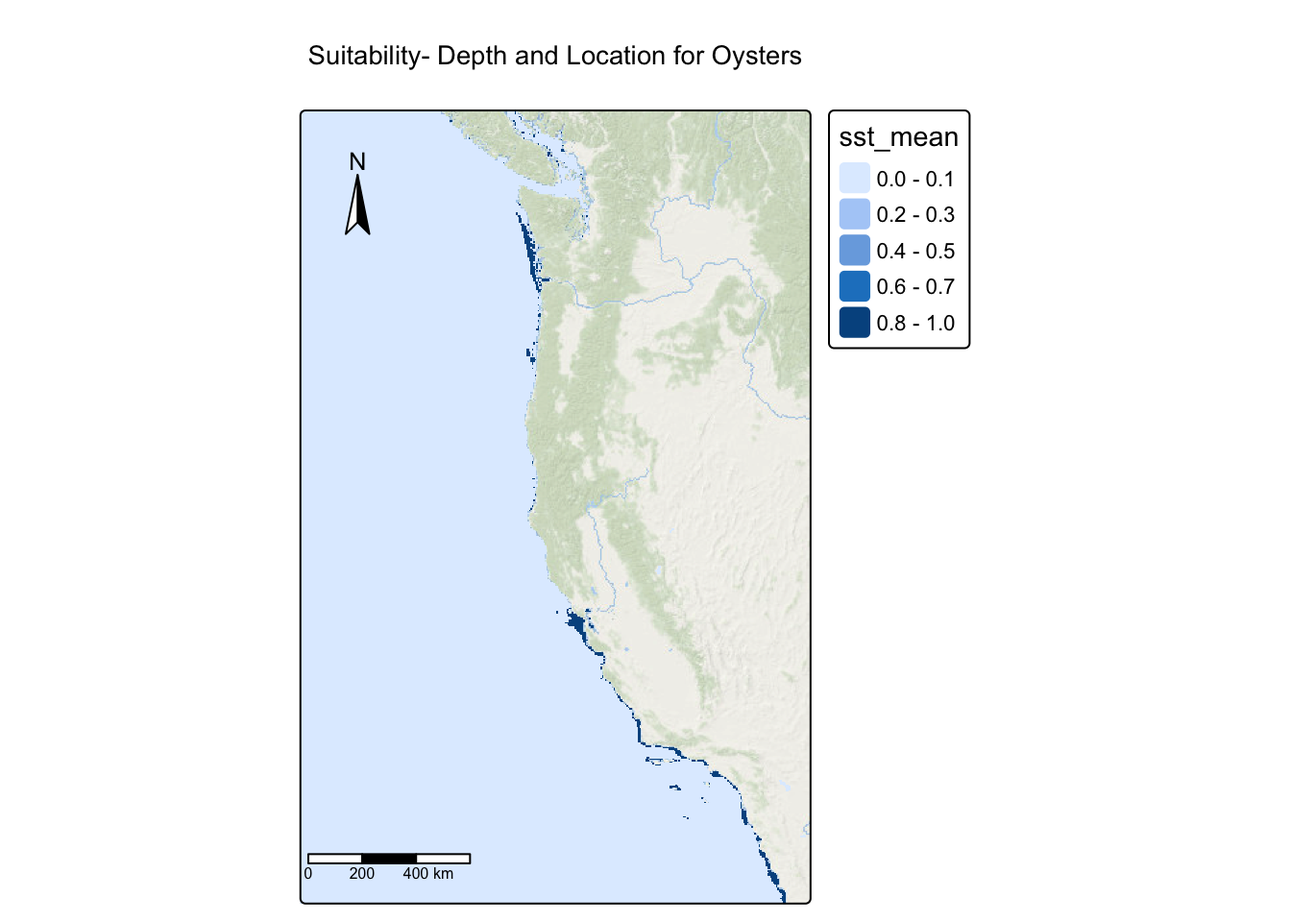
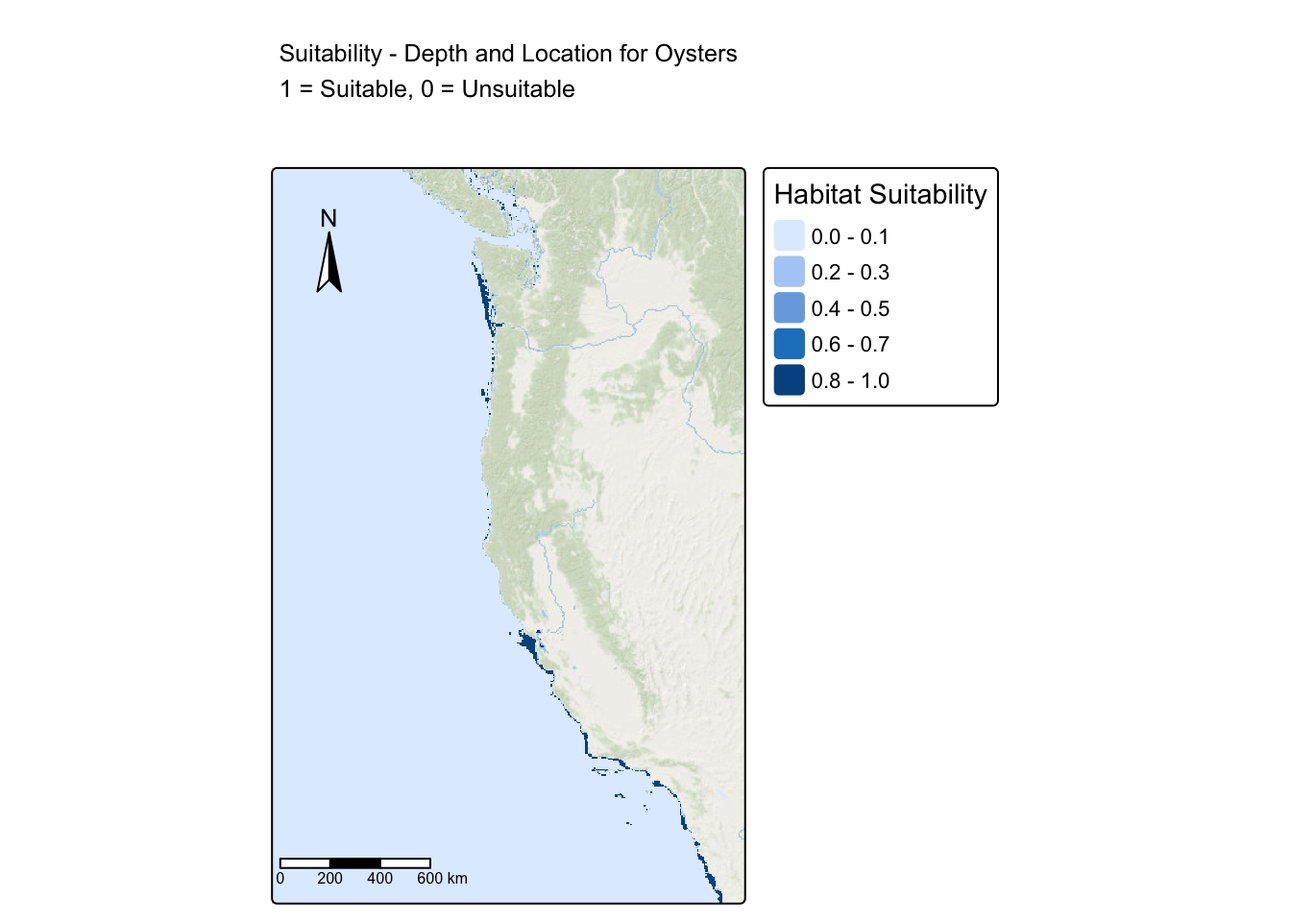
Removed text for redundancy

Changed region(s): [[0.1875, 0.0312, 0.7812, 1.0]]

diff --git a/docs/blog_post/prioritizing_west_coast_aquaculture_sites/index.html b/docs/blog_post/prioritizing_west_coast_aquaculture_sites/index.html
@@ -228,10 +228,10 @@ pre > code.sourceCode > span > a:first-child::before { text-decoration: underlin
   <li><a href="#importing-libraries" id="toc-importing-libraries" class="nav-link" data-scroll-target="#importing-libraries">Importing libraries</a></li>
   <li><a href="#import-data" id="toc-import-data" class="nav-link" data-scroll-target="#import-data">Import Data</a></li>
   <li><a href="#matching-crs-for-rasters" id="toc-matching-crs-for-rasters" class="nav-link" data-scroll-target="#matching-crs-for-rasters">Matching CRS for Rasters</a></li>
-  <li><a href="#combine-sst-rasters-into-a-raster-stack" id="toc-combine-sst-rasters-into-a-raster-stack" class="nav-link" data-scroll-target="#combine-sst-rasters-into-a-raster-stack">Combine SST rasters into a raster stack</a></li>
   </ul></li>
   <li><a href="#data-processing" id="toc-data-processing" class="nav-link" data-scroll-target="#data-processing">Data Processing</a>
   <ul class="collapse">
+  <li><a href="#combine-sst-rasters-into-a-raster-stack" id="toc-combine-sst-rasters-into-a-raster-stack" class="nav-link" data-scroll-target="#combine-sst-rasters-into-a-raster-stack">Combine SST rasters into a raster stack</a></li>
   <li><a href="#crop-extent-resolution" id="toc-crop-extent-resolution" class="nav-link" data-scroll-target="#crop-extent-resolution">Crop, Extent, Resolution</a></li>
   <li><a href="#find-suitable-locations-for-depth-and-sst" id="toc-find-suitable-locations-for-depth-and-sst" class="nav-link" data-scroll-target="#find-suitable-locations-for-depth-and-sst">Find Suitable Locations for Depth and SST</a></li>
   </ul></li>
@@ -244,7 +244,7 @@ pre > code.sourceCode > span > a:first-child::before { text-decoration: underlin
   </ul></li>
   <li><a href="#generalizable-suitability-analysis-function" id="toc-generalizable-suitability-analysis-function" class="nav-link" data-scroll-target="#generalizable-suitability-analysis-function">Generalizable Suitability Analysis Function</a>
   <ul class="collapse">
-  <li><a href="#important-load-in-datasets-before-using-function" id="toc-important-load-in-datasets-before-using-function" class="nav-link" data-scroll-target="#important-load-in-datasets-before-using-function"><strong>Important</strong> Load in datasets before using function:</a></li>
+  <li><a href="#note" id="toc-note" class="nav-link" data-scroll-target="#note"><em>Note</em>:</a></li>
   <li><a href="#use-function-with-new-species" id="toc-use-function-with-new-species" class="nav-link" data-scroll-target="#use-function-with-new-species">Use Function with New Species</a></li>
   <li><a href="#california-sea-hare-aplysia-californica" id="toc-california-sea-hare-aplysia-californica" class="nav-link" data-scroll-target="#california-sea-hare-aplysia-californica">California sea hare (<em>Aplysia californica</em>)</a></li>
   <li><a href="#california-spiny-lobster-panulirus-interruptus" id="toc-california-spiny-lobster-panulirus-interruptus" class="nav-link" data-scroll-target="#california-spiny-lobster-panulirus-interruptus">California spiny lobster (<em>Panulirus Interruptus</em>)</a></li>
@@ -405,9 +405,12 @@ pre > code.sourceCode > span > a:first-child::before { text-decoration: underlin
 </details>
 </div>
 </section>
+</section>
+<section id="data-processing" class="level1">
+<h1>Data Processing</h1>
 <section id="combine-sst-rasters-into-a-raster-stack" class="level3">
 <h3 class="anchored" data-anchor-id="combine-sst-rasters-into-a-raster-stack">Combine SST rasters into a raster stack</h3>
-<p>The original SST files have temperature values in Kelvin. Here, we combine all five monthly SST rasters (avg_08-avg_12) into a stack, calculate the mean sea surface temperature, and convert the values from Kelvin to Celsius by subtracting 273.15.</p>
+<p>To identify suitable habitats for oysters, we first combined five SST rasters (avg_08–avg_12) into a single dataset and calculated the mean SST, converting values from Kelvin to Celsius by subtracting 273.15. Depth data were then cropped and resampled to align with the SST raster, ensuring that all spatial layers had matching extents, resolutions, and coordinate reference systems. Next, we applied environmental thresholds depths between 0–70 meters and SSTs between 11–30°C to identify areas suitable for oyster aquaculture. Locations meeting both criteria were marked as suitable, producing a raster layer that will be mapped to highlight potential oyster habitats. This processing ensures that subsequent analysis and mapping accurately reflect the intersection of temperature and depth requirements across West Coast EEZs, as demonstrated in the following code chunks.</p>
 <div class="cell">
 <details class="code-fold">
 <summary>Code</summary>
@@ -420,12 +423,8 @@ pre > code.sourceCode > span > a:first-child::before { text-decoration: underlin
 </details>
 </div>
 </section>
-</section>
-<section id="data-processing" class="level1">
-<h1>Data Processing</h1>
 <section id="crop-extent-resolution" class="level3">
 <h3 class="anchored" data-anchor-id="crop-extent-resolution">Crop, Extent, Resolution</h3>
-<p>For spatial analysis to work correctly, rasters must have matching extents, resolutions, and alignment. Here, I crop the depth data to match the SST extent, then resample it to ensure both rasters have identical cell sizes and positions. Finally, I verify that resolution, extent, and CRS all match between the two datasets.</p>
 <div class="cell">
 <details class="code-fold">
 <summary>Code</summary>
@@ -482,7 +481,7 @@ pre > code.sourceCode > span > a:first-child::before { text-decoration: underlin
 </section>
 <section id="find-suitable-locations-for-depth-and-sst" class="level3">
 <h3 class="anchored" data-anchor-id="find-suitable-locations-for-depth-and-sst">Find Suitable Locations for Depth and SST</h3>
-<p>To identify suitable locations for oyster aquaculture, we need to find areas that meet both temperature and depth requirements. This is done by reclassifying each raster to indicate suitable (1) vs.&nbsp;unsuitable (0) conditions, then combining them to find locations where both criteria are satisfied. - <code>Oysters have optimal growth at depths between *0-70 meters* below sea level and between *11-30°C*.</code></p>
+<p>To identify suitable locations for oyster aquaculture, we need to find areas that meet both temperature and depth requirements. This is done by reclassifying each raster to indicate suitable (1) vs.&nbsp;unsuitable (0) conditions, then combining them to find locations where both criteria are satisfied.</p>
 <div class="cell">
 <details class="code-fold">
 <summary>Code</summary>
@@ -506,15 +505,14 @@ pre > code.sourceCode > span > a:first-child::before { text-decoration: underlin
 <span id="cb18-18"><a href="#cb18-18" aria-hidden="true" tabindex="-1"></a><span class="co"># Combine Oyster and Depth for suitability</span></span>
 <span id="cb18-19"><a href="#cb18-19" aria-hidden="true" tabindex="-1"></a>suitable <span class="ot">&lt;-</span> reclassified_sst <span class="sc">*</span> reclassified_depth <span class="co"># Min = 0, Max = 1</span></span>
 <span id="cb18-20"><a href="#cb18-20" aria-hidden="true" tabindex="-1"></a></span>
-<span id="cb18-21"><a href="#cb18-21" aria-hidden="true" tabindex="-1"></a><span class="co"># Map it</span></span>
-<span id="cb18-22"><a href="#cb18-22" aria-hidden="true" tabindex="-1"></a><span class="fu">tm_shape</span>(suitable)<span class="sc">+</span></span>
-<span id="cb18-23"><a href="#cb18-23" aria-hidden="true" tabindex="-1"></a>  <span class="fu">tm_raster</span>()<span class="sc">+</span></span>
-<span id="cb18-24"><a href="#cb18-24" aria-hidden="true" tabindex="-1"></a>  <span class="fu">tm_title</span>(<span class="st">"Suitability- Depth and Location for Oysters"</span>)<span class="sc">+</span></span>
-<span id="cb18-25"><a href="#cb18-25" aria-hidden="true" tabindex="-1"></a>  <span class="fu">tm_layout</span>(</span>
-<span id="cb18-26"><a href="#cb18-26" aria-hidden="true" tabindex="-1"></a>  <span class="at">legend.outside.position =</span> <span class="cn">TRUE</span>)<span class="sc">+</span></span>
-<span id="cb18-27"><a href="#cb18-27" aria-hidden="true" tabindex="-1"></a><span class="fu">tm_scale_bar</span>(<span class="at">position =</span> <span class="fu">c</span>(<span class="sc">-</span>.<span class="dv">01</span>, <span class="fl">0.08</span>)) <span class="sc">+</span></span>
-<span id="cb18-28"><a href="#cb18-28" aria-hidden="true" tabindex="-1"></a><span class="fu">tm_compass</span>(<span class="at">position =</span> <span class="fu">c</span>(<span class="st">"left"</span>, <span class="st">"top"</span>))<span class="sc">+</span></span>
-<span id="cb18-29"><a href="#cb18-29" aria-hidden="true" tabindex="-1"></a>  <span class="fu">tm_basemap</span>(<span class="st">"Esri.OceanBasemap"</span>)</span></code></pre></div><button title="Copy to Clipboard" class="code-copy-button"><i class="bi"></i></button></div>
+<span id="cb18-21"><a href="#cb18-21" aria-hidden="true" tabindex="-1"></a><span class="co">#Map it</span></span>
+<span id="cb18-22"><a href="#cb18-22" aria-hidden="true" tabindex="-1"></a><span class="fu">tm_shape</span>(suitable) <span class="sc">+</span></span>
+<span id="cb18-23"><a href="#cb18-23" aria-hidden="true" tabindex="-1"></a>  <span class="fu">tm_raster</span>(<span class="at">title =</span> <span class="st">"Habitat Suitability"</span>) <span class="sc">+</span>   <span class="co"># short legend title</span></span>
+<span id="cb18-24"><a href="#cb18-24" aria-hidden="true" tabindex="-1"></a>  <span class="fu">tm_title</span>(<span class="st">"Suitability - Depth and Location for Oysters</span><span class="sc">\n</span><span class="st">1 = Suitable, 0 = Unsuitable"</span>) <span class="sc">+</span>  <span class="co"># subtitle with explanation</span></span>
+<span id="cb18-25"><a href="#cb18-25" aria-hidden="true" tabindex="-1"></a>  <span class="fu">tm_layout</span>(<span class="at">legend.outside.position =</span> <span class="cn">TRUE</span>) <span class="sc">+</span></span>
+<span id="cb18-26"><a href="#cb18-26" aria-hidden="true" tabindex="-1"></a>  <span class="fu">tm_scale_bar</span>(<span class="at">position =</span> <span class="fu">c</span>(<span class="sc">-</span>.<span class="dv">01</span>, <span class="fl">0.08</span>)) <span class="sc">+</span></span>
+<span id="cb18-27"><a href="#cb18-27" aria-hidden="true" tabindex="-1"></a>  <span class="fu">tm_compass</span>(<span class="at">position =</span> <span class="fu">c</span>(<span class="st">"left"</span>, <span class="st">"top"</span>)) <span class="sc">+</span></span>
+<span id="cb18-28"><a href="#cb18-28" aria-hidden="true" tabindex="-1"></a>  <span class="fu">tm_basemap</span>(<span class="st">"Esri.OceanBasemap"</span>)</span></code></pre></div><button title="Copy to Clipboard" class="code-copy-button"><i class="bi"></i></button></div>
 </details>
 <div class="cell-output-display">
 <div>
@@ -608,7 +606,7 @@ pre > code.sourceCode > span > a:first-child::before { text-decoration: underlin
 <div class="code-copy-outer-scaffold"><div class="sourceCode cell-code" id="cb20"><pre class="sourceCode r code-with-copy"><code class="sourceCode r"><span id="cb20-1"><a href="#cb20-1" aria-hidden="true" tabindex="-1"></a><span class="fu">tm_shape</span>(regions) <span class="sc">+</span></span>
 <span id="cb20-2"><a href="#cb20-2" aria-hidden="true" tabindex="-1"></a>  <span class="fu">tm_polygons</span>(<span class="st">"rgn"</span>, <span class="at">palette =</span> <span class="st">"Set3"</span>, <span class="at">title =</span> <span class="st">"EEZ Regions"</span>, <span class="at">alpha =</span> <span class="dv">1</span>) <span class="sc">+</span></span>
 <span id="cb20-3"><a href="#cb20-3" aria-hidden="true" tabindex="-1"></a><span class="fu">tm_shape</span>(suitable_mask) <span class="sc">+</span></span>
-<span id="cb20-4"><a href="#cb20-4" aria-hidden="true" tabindex="-1"></a>  <span class="fu">tm_raster</span>(<span class="at">alpha =</span> <span class="fl">0.6</span>, <span class="at">title =</span> <span class="st">"Suitable Area"</span>) <span class="sc">+</span></span>
+<span id="cb20-4"><a href="#cb20-4" aria-hidden="true" tabindex="-1"></a>  <span class="fu">tm_raster</span>(<span class="at">alpha =</span> <span class="fl">0.6</span>, <span class="at">title =</span> <span class="st">"Suitable Area (km²)"</span>) <span class="sc">+</span></span>
 <span id="cb20-5"><a href="#cb20-5" aria-hidden="true" tabindex="-1"></a><span class="fu">tm_shape</span>(regions) <span class="sc">+</span></span>
 <span id="cb20-6"><a href="#cb20-6" aria-hidden="true" tabindex="-1"></a>  <span class="co"># Adding labels</span></span>
 <span id="cb20-7"><a href="#cb20-7" aria-hidden="true" tabindex="-1"></a>  <span class="fu">tm_text</span>(<span class="st">"rgn"</span>, <span class="at">size =</span> <span class="fl">0.5</span>) <span class="sc">+</span>   </span>
@@ -754,117 +752,119 @@ pre > code.sourceCode > span > a:first-child::before { text-decoration: underlin
 </section>
 <section id="generalizable-suitability-analysis-function" class="level1">
 <h1>Generalizable Suitability Analysis Function</h1>
-<section id="important-load-in-datasets-before-using-function" class="level3">
-<h3 class="anchored" data-anchor-id="important-load-in-datasets-before-using-function"><strong>Important</strong> Load in datasets before using function:</h3>
-<p>To view habitat suitability for multiple species, I developed a reusable function that automates the entire workflow that was ran previously: reclassification matrix, calculating suitable areas by EEZ, and generating summary outputs. This function can be applied to any marine species with known temperature and depth requirements. Before continuing,<code>CRS, Extent, Resolution, and Geometry</code> all need to match before using function.</p>
+<p>To view habitat suitability for multiple species, I developed a reusable function that automates the entire workflow that was ran previously: reclassification matrix, calculating suitable areas by EEZ, and generating summary outputs. This function can be applied to any marine species with known temperature and depth requirements.</p>
+<section id="note" class="level3">
+<h3 class="anchored" data-anchor-id="note"><em>Note</em>:</h3>
+<p>Before running the function, make sure the datasets are loaded and that their coordinate reference systems (CRS), spatial extents, resolutions, and geometries match.</p>
 <div class="cell">
 <details class="code-fold">
 <summary>Code</summary>
 <div class="code-copy-outer-scaffold"><div class="sourceCode cell-code" id="cb23"><pre class="sourceCode r code-with-copy"><code class="sourceCode r"><span id="cb23-1"><a href="#cb23-1" aria-hidden="true" tabindex="-1"></a>suit_func <span class="ot">&lt;-</span> <span class="cf">function</span>(</span>
-<span id="cb23-2"><a href="#cb23-2" aria-hidden="true" tabindex="-1"></a>  sst_raster,</span>
-<span id="cb23-3"><a href="#cb23-3" aria-hidden="true" tabindex="-1"></a>  depth_raster,</span>
-<span id="cb23-4"><a href="#cb23-4" aria-hidden="true" tabindex="-1"></a>  eez_sf,</span>
-<span id="cb23-5"><a href="#cb23-5" aria-hidden="true" tabindex="-1"></a>  min_sst,</span>
-<span id="cb23-6"><a href="#cb23-6" aria-hidden="true" tabindex="-1"></a>  max_sst,</span>
-<span id="cb23-7"><a href="#cb23-7" aria-hidden="true" tabindex="-1"></a>  min_depth,</span>
-<span id="cb23-8"><a href="#cb23-8" aria-hidden="true" tabindex="-1"></a>  max_depth,</span>
-<span id="cb23-9"><a href="#cb23-9" aria-hidden="true" tabindex="-1"></a>  species_name</span>
-<span id="cb23-10"><a href="#cb23-10" aria-hidden="true" tabindex="-1"></a>) {</span>
-<span id="cb23-11"><a href="#cb23-11" aria-hidden="true" tabindex="-1"></a></span>
+<span id="cb23-2"><a href="#cb23-2" aria-hidden="true" tabindex="-1"></a>  <span class="co"># Parameters</span></span>
+<span id="cb23-3"><a href="#cb23-3" aria-hidden="true" tabindex="-1"></a>  sst_raster,</span>
+<span id="cb23-4"><a href="#cb23-4" aria-hidden="true" tabindex="-1"></a>  depth_raster,</span>
+<span id="cb23-5"><a href="#cb23-5" aria-hidden="true" tabindex="-1"></a>  eez_sf,</span>
+<span id="cb23-6"><a href="#cb23-6" aria-hidden="true" tabindex="-1"></a>  min_sst,</span>
+<span id="cb23-7"><a href="#cb23-7" aria-hidden="true" tabindex="-1"></a>  max_sst,</span>
+<span id="cb23-8"><a href="#cb23-8" aria-hidden="true" tabindex="-1"></a>  min_depth,</span>
+<span id="cb23-9"><a href="#cb23-9" aria-hidden="true" tabindex="-1"></a>  max_depth,</span>
+<span id="cb23-10"><a href="#cb23-10" aria-hidden="true" tabindex="-1"></a>  species_name</span>
+<span id="cb23-11"><a href="#cb23-11" aria-hidden="true" tabindex="-1"></a>) {</span>
 <span id="cb23-12"><a href="#cb23-12" aria-hidden="true" tabindex="-1"></a></span>
-<span id="cb23-13"><a href="#cb23-13" aria-hidden="true" tabindex="-1"></a>  <span class="co"># Reclassify Depth</span></span>
-<span id="cb23-14"><a href="#cb23-14" aria-hidden="true" tabindex="-1"></a>  rcl_depth <span class="ot">&lt;-</span> <span class="fu">matrix</span>(<span class="fu">c</span>(</span>
-<span id="cb23-15"><a href="#cb23-15" aria-hidden="true" tabindex="-1"></a>    <span class="sc">-</span><span class="cn">Inf</span>, min_depth, <span class="dv">0</span>,</span>
-<span id="cb23-16"><a href="#cb23-16" aria-hidden="true" tabindex="-1"></a>     min_depth, max_depth, <span class="dv">1</span>,</span>
-<span id="cb23-17"><a href="#cb23-17" aria-hidden="true" tabindex="-1"></a>     max_depth, <span class="cn">Inf</span>, <span class="dv">0</span></span>
-<span id="cb23-18"><a href="#cb23-18" aria-hidden="true" tabindex="-1"></a>  ), <span class="at">byrow =</span> <span class="cn">TRUE</span>, <span class="at">ncol =</span> <span class="dv">3</span>)</span>
-<span id="cb23-19"><a href="#cb23-19" aria-hidden="true" tabindex="-1"></a></span>
-<span id="cb23-20"><a href="#cb23-20" aria-hidden="true" tabindex="-1"></a>  depth_suit <span class="ot">&lt;-</span> <span class="fu">classify</span>(depth_raster, rcl_depth)</span>
-<span id="cb23-21"><a href="#cb23-21" aria-hidden="true" tabindex="-1"></a></span>
-<span id="cb23-22"><a href="#cb23-22" aria-hidden="true" tabindex="-1"></a>  <span class="co"># Reclassify SST</span></span>
-<span id="cb23-23"><a href="#cb23-23" aria-hidden="true" tabindex="-1"></a>  rcl_sst <span class="ot">&lt;-</span> <span class="fu">matrix</span>(<span class="fu">c</span>(</span>
-<span id="cb23-24"><a href="#cb23-24" aria-hidden="true" tabindex="-1"></a>    <span class="sc">-</span><span class="cn">Inf</span>, min_sst, <span class="dv">0</span>,</span>
-<span id="cb23-25"><a href="#cb23-25" aria-hidden="true" tabindex="-1"></a>     min_sst, max_sst, <span class="dv">1</span>,</span>
-<span id="cb23-26"><a href="#cb23-26" aria-hidden="true" tabindex="-1"></a>     max_sst, <span class="cn">Inf</span>, <span class="dv">0</span></span>
-<span id="cb23-27"><a href="#cb23-27" aria-hidden="true" tabindex="-1"></a>  ), <span class="at">byrow =</span> <span class="cn">TRUE</span>, <span class="at">ncol =</span> <span class="dv">3</span>)</span>
-<span id="cb23-28"><a href="#cb23-28" aria-hidden="true" tabindex="-1"></a></span>
-<span id="cb23-29"><a href="#cb23-29" aria-hidden="true" tabindex="-1"></a>  sst_suit <span class="ot">&lt;-</span> <span class="fu">classify</span>(sst_raster, rcl_sst)</span>
-<span id="cb23-30"><a href="#cb23-30" aria-hidden="true" tabindex="-1"></a></span>
-<span id="cb23-31"><a href="#cb23-31" aria-hidden="true" tabindex="-1"></a>  <span class="co"># Combine Stack</span></span>
-<span id="cb23-32"><a href="#cb23-32" aria-hidden="true" tabindex="-1"></a>  suit_env <span class="ot">&lt;-</span> depth_suit <span class="sc">*</span> sst_suit</span>
-<span id="cb23-33"><a href="#cb23-33" aria-hidden="true" tabindex="-1"></a></span>
-<span id="cb23-34"><a href="#cb23-34" aria-hidden="true" tabindex="-1"></a>  <span class="co"># Mask</span></span>
-<span id="cb23-35"><a href="#cb23-35" aria-hidden="true" tabindex="-1"></a>  suit_mask <span class="ot">&lt;-</span> <span class="fu">mask</span>(suit_env,regions)</span>
-<span id="cb23-36"><a href="#cb23-36" aria-hidden="true" tabindex="-1"></a></span>
-<span id="cb23-37"><a href="#cb23-37" aria-hidden="true" tabindex="-1"></a>  <span class="co"># Rasterize EEZ polygons to match raster grid</span></span>
-<span id="cb23-38"><a href="#cb23-38" aria-hidden="true" tabindex="-1"></a>  eez_rast <span class="ot">&lt;-</span> terra<span class="sc">::</span><span class="fu">rasterize</span>(eez_sf, suit_mask, <span class="at">field =</span> <span class="st">"rgn"</span>)</span>
-<span id="cb23-39"><a href="#cb23-39" aria-hidden="true" tabindex="-1"></a></span>
-<span id="cb23-40"><a href="#cb23-40" aria-hidden="true" tabindex="-1"></a>  <span class="co"># Zonal area (km^2)</span></span>
-<span id="cb23-41"><a href="#cb23-41" aria-hidden="true" tabindex="-1"></a>  cell_area <span class="ot">&lt;-</span> <span class="fu">cellSize</span>(suit_mask, <span class="at">unit =</span> <span class="st">"km"</span>)</span>
-<span id="cb23-42"><a href="#cb23-42" aria-hidden="true" tabindex="-1"></a></span>
-<span id="cb23-43"><a href="#cb23-43" aria-hidden="true" tabindex="-1"></a>  area_table <span class="ot">&lt;-</span> <span class="fu">zonal</span>(cell_area <span class="sc">*</span> suit_mask, eez_rast, <span class="at">fun =</span> <span class="st">"sum"</span>, <span class="at">na.rm =</span> <span class="cn">TRUE</span>) <span class="sc">%&gt;%</span></span>
-<span id="cb23-44"><a href="#cb23-44" aria-hidden="true" tabindex="-1"></a>  <span class="fu">rename</span>(<span class="st">"suitable_area_km2_new"</span> <span class="ot">=</span> area) <span class="sc">%&gt;%</span></span>
-<span id="cb23-45"><a href="#cb23-45" aria-hidden="true" tabindex="-1"></a>  <span class="fu">mutate</span>(<span class="at">suitable_area_km2 =</span> <span class="fu">as.numeric</span>(suitable_area_km2_new)) <span class="sc">%&gt;%</span></span>
-<span id="cb23-46"><a href="#cb23-46" aria-hidden="true" tabindex="-1"></a>  <span class="fu">as_tibble</span>() <span class="sc">%&gt;%</span></span>
-<span id="cb23-47"><a href="#cb23-47" aria-hidden="true" tabindex="-1"></a>  <span class="fu">arrange</span>(<span class="fu">desc</span>(suitable_area_km2))</span>
-<span id="cb23-48"><a href="#cb23-48" aria-hidden="true" tabindex="-1"></a></span>
-<span id="cb23-49"><a href="#cb23-49" aria-hidden="true" tabindex="-1"></a>  <span class="co"># Join back to EEZ polygons for mapping</span></span>
-<span id="cb23-50"><a href="#cb23-50" aria-hidden="true" tabindex="-1"></a>  eez_joined <span class="ot">&lt;-</span> <span class="fu">left_join</span>(eez_sf, area_table, <span class="at">by =</span> <span class="st">"rgn"</span>)</span>
-<span id="cb23-51"><a href="#cb23-51" aria-hidden="true" tabindex="-1"></a></span>
-<span id="cb23-52"><a href="#cb23-52" aria-hidden="true" tabindex="-1"></a>    <span class="co"># Create table</span></span>
-<span id="cb23-53"><a href="#cb23-53" aria-hidden="true" tabindex="-1"></a>  eez_table <span class="ot">&lt;-</span> eez_joined <span class="sc">%&gt;%</span></span>
-<span id="cb23-54"><a href="#cb23-54" aria-hidden="true" tabindex="-1"></a>    <span class="fu">st_drop_geometry</span>() <span class="sc">%&gt;%</span></span>
-<span id="cb23-55"><a href="#cb23-55" aria-hidden="true" tabindex="-1"></a>    <span class="co"># to view for each species</span></span>
-<span id="cb23-56"><a href="#cb23-56" aria-hidden="true" tabindex="-1"></a>    <span class="fu">as.data.frame</span>() <span class="sc">%&gt;%</span></span>
-<span id="cb23-57"><a href="#cb23-57" aria-hidden="true" tabindex="-1"></a>    <span class="co"># select columns to show in figure</span></span>
-<span id="cb23-58"><a href="#cb23-58" aria-hidden="true" tabindex="-1"></a>    dplyr<span class="sc">::</span><span class="fu">select</span>(rgn, suitable_area_km2_new) <span class="sc">%&gt;%</span></span>
-<span id="cb23-59"><a href="#cb23-59" aria-hidden="true" tabindex="-1"></a>    <span class="co"># rename column</span></span>
-<span id="cb23-60"><a href="#cb23-60" aria-hidden="true" tabindex="-1"></a>    <span class="fu">rename</span>(<span class="at">Region =</span> rgn) <span class="sc">%&gt;%</span></span>
-<span id="cb23-61"><a href="#cb23-61" aria-hidden="true" tabindex="-1"></a>    <span class="co"># new column</span></span>
-<span id="cb23-62"><a href="#cb23-62" aria-hidden="true" tabindex="-1"></a>    <span class="fu">mutate</span>(<span class="at">suitable_area_km2_new =</span> <span class="fu">round</span>(suitable_area_km2_new, <span class="dv">2</span>)) <span class="sc">%&gt;%</span></span>
-<span id="cb23-63"><a href="#cb23-63" aria-hidden="true" tabindex="-1"></a>    <span class="fu">rename</span>(<span class="st">"Suitable Area(km²)"</span> <span class="ot">=</span> suitable_area_km2_new)</span>
-<span id="cb23-64"><a href="#cb23-64" aria-hidden="true" tabindex="-1"></a></span>
+<span id="cb23-13"><a href="#cb23-13" aria-hidden="true" tabindex="-1"></a></span>
+<span id="cb23-14"><a href="#cb23-14" aria-hidden="true" tabindex="-1"></a>  <span class="co"># Reclassify Depth</span></span>
+<span id="cb23-15"><a href="#cb23-15" aria-hidden="true" tabindex="-1"></a>  rcl_depth <span class="ot">&lt;-</span> <span class="fu">matrix</span>(<span class="fu">c</span>(</span>
+<span id="cb23-16"><a href="#cb23-16" aria-hidden="true" tabindex="-1"></a>    <span class="sc">-</span><span class="cn">Inf</span>, min_depth, <span class="dv">0</span>,</span>
+<span id="cb23-17"><a href="#cb23-17" aria-hidden="true" tabindex="-1"></a>     min_depth, max_depth, <span class="dv">1</span>,</span>
+<span id="cb23-18"><a href="#cb23-18" aria-hidden="true" tabindex="-1"></a>     max_depth, <span class="cn">Inf</span>, <span class="dv">0</span></span>
+<span id="cb23-19"><a href="#cb23-19" aria-hidden="true" tabindex="-1"></a>  ), <span class="at">byrow =</span> <span class="cn">TRUE</span>, <span class="at">ncol =</span> <span class="dv">3</span>)</span>
+<span id="cb23-20"><a href="#cb23-20" aria-hidden="true" tabindex="-1"></a></span>
+<span id="cb23-21"><a href="#cb23-21" aria-hidden="true" tabindex="-1"></a>  depth_suit <span class="ot">&lt;-</span> <span class="fu">classify</span>(depth_raster, rcl_depth)</span>
+<span id="cb23-22"><a href="#cb23-22" aria-hidden="true" tabindex="-1"></a></span>
+<span id="cb23-23"><a href="#cb23-23" aria-hidden="true" tabindex="-1"></a>  <span class="co"># Reclassify SST</span></span>
+<span id="cb23-24"><a href="#cb23-24" aria-hidden="true" tabindex="-1"></a>  rcl_sst <span class="ot">&lt;-</span> <span class="fu">matrix</span>(<span class="fu">c</span>(</span>
+<span id="cb23-25"><a href="#cb23-25" aria-hidden="true" tabindex="-1"></a>    <span class="sc">-</span><span class="cn">Inf</span>, min_sst, <span class="dv">0</span>,</span>
+<span id="cb23-26"><a href="#cb23-26" aria-hidden="true" tabindex="-1"></a>     min_sst, max_sst, <span class="dv">1</span>,</span>
+<span id="cb23-27"><a href="#cb23-27" aria-hidden="true" tabindex="-1"></a>     max_sst, <span class="cn">Inf</span>, <span class="dv">0</span></span>
+<span id="cb23-28"><a href="#cb23-28" aria-hidden="true" tabindex="-1"></a>  ), <span class="at">byrow =</span> <span class="cn">TRUE</span>, <span class="at">ncol =</span> <span class="dv">3</span>)</span>
+<span id="cb23-29"><a href="#cb23-29" aria-hidden="true" tabindex="-1"></a></span>
+<span id="cb23-30"><a href="#cb23-30" aria-hidden="true" tabindex="-1"></a>  sst_suit <span class="ot">&lt;-</span> <span class="fu">classify</span>(sst_raster, rcl_sst)</span>
+<span id="cb23-31"><a href="#cb23-31" aria-hidden="true" tabindex="-1"></a></span>
+<span id="cb23-32"><a href="#cb23-32" aria-hidden="true" tabindex="-1"></a>  <span class="co"># Combine Stack</span></span>
+<span id="cb23-33"><a href="#cb23-33" aria-hidden="true" tabindex="-1"></a>  suit_env <span class="ot">&lt;-</span> depth_suit <span class="sc">*</span> sst_suit</span>
+<span id="cb23-34"><a href="#cb23-34" aria-hidden="true" tabindex="-1"></a></span>
+<span id="cb23-35"><a href="#cb23-35" aria-hidden="true" tabindex="-1"></a>  <span class="co"># Mask</span></span>
+<span id="cb23-36"><a href="#cb23-36" aria-hidden="true" tabindex="-1"></a>  suit_mask <span class="ot">&lt;-</span> <span class="fu">mask</span>(suit_env,regions)</span>
+<span id="cb23-37"><a href="#cb23-37" aria-hidden="true" tabindex="-1"></a></span>
+<span id="cb23-38"><a href="#cb23-38" aria-hidden="true" tabindex="-1"></a>  <span class="co"># Rasterize EEZ polygons to match raster grid</span></span>
+<span id="cb23-39"><a href="#cb23-39" aria-hidden="true" tabindex="-1"></a>  eez_rast <span class="ot">&lt;-</span> terra<span class="sc">::</span><span class="fu">rasterize</span>(eez_sf, suit_mask, <span class="at">field =</span> <span class="st">"rgn"</span>)</span>
+<span id="cb23-40"><a href="#cb23-40" aria-hidden="true" tabindex="-1"></a></span>
+<span id="cb23-41"><a href="#cb23-41" aria-hidden="true" tabindex="-1"></a>  <span class="co"># Zonal area (km^2)</span></span>
+<span id="cb23-42"><a href="#cb23-42" aria-hidden="true" tabindex="-1"></a>  cell_area <span class="ot">&lt;-</span> <span class="fu">cellSize</span>(suit_mask, <span class="at">unit =</span> <span class="st">"km"</span>)</span>
+<span id="cb23-43"><a href="#cb23-43" aria-hidden="true" tabindex="-1"></a></span>
+<span id="cb23-44"><a href="#cb23-44" aria-hidden="true" tabindex="-1"></a>  area_table <span class="ot">&lt;-</span> <span class="fu">zonal</span>(cell_area <span class="sc">*</span> suit_mask, eez_rast, <span class="at">fun =</span> <span class="st">"sum"</span>, <span class="at">na.rm =</span> <span class="cn">TRUE</span>) <span class="sc">%&gt;%</span></span>
+<span id="cb23-45"><a href="#cb23-45" aria-hidden="true" tabindex="-1"></a>  <span class="fu">rename</span>(<span class="st">"suitable_area_km2_new"</span> <span class="ot">=</span> area) <span class="sc">%&gt;%</span></span>
+<span id="cb23-46"><a href="#cb23-46" aria-hidden="true" tabindex="-1"></a>  <span class="fu">mutate</span>(<span class="at">suitable_area_km2 =</span> <span class="fu">as.numeric</span>(suitable_area_km2_new)) <span class="sc">%&gt;%</span></span>
+<span id="cb23-47"><a href="#cb23-47" aria-hidden="true" tabindex="-1"></a>  <span class="fu">as_tibble</span>() <span class="sc">%&gt;%</span></span>
+<span id="cb23-48"><a href="#cb23-48" aria-hidden="true" tabindex="-1"></a>  <span class="fu">arrange</span>(<span class="fu">desc</span>(suitable_area_km2))</span>
+<span id="cb23-49"><a href="#cb23-49" aria-hidden="true" tabindex="-1"></a></span>
+<span id="cb23-50"><a href="#cb23-50" aria-hidden="true" tabindex="-1"></a>  <span class="co"># Join back to EEZ polygons for mapping</span></span>
+<span id="cb23-51"><a href="#cb23-51" aria-hidden="true" tabindex="-1"></a>  eez_joined <span class="ot">&lt;-</span> <span class="fu">left_join</span>(eez_sf, area_table, <span class="at">by =</span> <span class="st">"rgn"</span>)</span>
+<span id="cb23-52"><a href="#cb23-52" aria-hidden="true" tabindex="-1"></a></span>
+<span id="cb23-53"><a href="#cb23-53" aria-hidden="true" tabindex="-1"></a>    <span class="co"># Create table</span></span>
+<span id="cb23-54"><a href="#cb23-54" aria-hidden="true" tabindex="-1"></a>  eez_table <span class="ot">&lt;-</span> eez_joined <span class="sc">%&gt;%</span></span>
+<span id="cb23-55"><a href="#cb23-55" aria-hidden="true" tabindex="-1"></a>    <span class="fu">st_drop_geometry</span>() <span class="sc">%&gt;%</span></span>
+<span id="cb23-56"><a href="#cb23-56" aria-hidden="true" tabindex="-1"></a>    <span class="co"># to view for each species</span></span>
+<span id="cb23-57"><a href="#cb23-57" aria-hidden="true" tabindex="-1"></a>    <span class="fu">as.data.frame</span>() <span class="sc">%&gt;%</span></span>
+<span id="cb23-58"><a href="#cb23-58" aria-hidden="true" tabindex="-1"></a>    <span class="co"># select columns to show in figure</span></span>
+<span id="cb23-59"><a href="#cb23-59" aria-hidden="true" tabindex="-1"></a>    dplyr<span class="sc">::</span><span class="fu">select</span>(rgn, suitable_area_km2_new) <span class="sc">%&gt;%</span></span>
+<span id="cb23-60"><a href="#cb23-60" aria-hidden="true" tabindex="-1"></a>    <span class="co"># rename column</span></span>
+<span id="cb23-61"><a href="#cb23-61" aria-hidden="true" tabindex="-1"></a>    <span class="fu">rename</span>(<span class="at">Region =</span> rgn) <span class="sc">%&gt;%</span></span>
+<span id="cb23-62"><a href="#cb23-62" aria-hidden="true" tabindex="-1"></a>    <span class="co"># new column</span></span>
+<span id="cb23-63"><a href="#cb23-63" aria-hidden="true" tabindex="-1"></a>    <span class="fu">mutate</span>(<span class="at">suitable_area_km2_new =</span> <span class="fu">round</span>(suitable_area_km2_new, <span class="dv">2</span>)) <span class="sc">%&gt;%</span></span>
+<span id="cb23-64"><a href="#cb23-64" aria-hidden="true" tabindex="-1"></a>    <span class="fu">rename</span>(<span class="st">"Suitable Area(km²)"</span> <span class="ot">=</span> suitable_area_km2_new)</span>
 <span id="cb23-65"><a href="#cb23-65" aria-hidden="true" tabindex="-1"></a></span>
-<span id="cb23-66"><a href="#cb23-66" aria-hidden="true" tabindex="-1"></a>  <span class="co"># Plot It!</span></span>
-<span id="cb23-67"><a href="#cb23-67" aria-hidden="true" tabindex="-1"></a>  suit_func_map <span class="ot">&lt;-</span></span>
-<span id="cb23-68"><a href="#cb23-68" aria-hidden="true" tabindex="-1"></a>    <span class="fu">tm_shape</span>(eez_joined) <span class="sc">+</span></span>
-<span id="cb23-69"><a href="#cb23-69" aria-hidden="true" tabindex="-1"></a>      <span class="fu">tm_polygons</span>(</span>
-<span id="cb23-70"><a href="#cb23-70" aria-hidden="true" tabindex="-1"></a>        <span class="st">"suitable_area_km2_new"</span>,</span>
-<span id="cb23-71"><a href="#cb23-71" aria-hidden="true" tabindex="-1"></a>        <span class="at">palette =</span> <span class="st">"-mako"</span>,</span>
-<span id="cb23-72"><a href="#cb23-72" aria-hidden="true" tabindex="-1"></a>        <span class="at">style =</span> <span class="st">"cont"</span>,</span>
-<span id="cb23-73"><a href="#cb23-73" aria-hidden="true" tabindex="-1"></a>        <span class="at">title =</span> <span class="st">"Suitable Area (km²)"</span></span>
-<span id="cb23-74"><a href="#cb23-74" aria-hidden="true" tabindex="-1"></a>      ) <span class="sc">+</span></span>
-<span id="cb23-75"><a href="#cb23-75" aria-hidden="true" tabindex="-1"></a>      <span class="fu">tm_text</span>(<span class="st">"rgn"</span>,</span>
-<span id="cb23-76"><a href="#cb23-76" aria-hidden="true" tabindex="-1"></a>              <span class="at">size =</span> <span class="fl">0.45</span>,</span>
-<span id="cb23-77"><a href="#cb23-77" aria-hidden="true" tabindex="-1"></a>              <span class="at">col =</span> <span class="st">"black"</span>,</span>
-<span id="cb23-78"><a href="#cb23-78" aria-hidden="true" tabindex="-1"></a>              <span class="at">fontface =</span> <span class="st">"bold"</span>,</span>
-<span id="cb23-79"><a href="#cb23-79" aria-hidden="true" tabindex="-1"></a>              <span class="at">bgcol =</span> <span class="st">"antiquewhite"</span>,</span>
-<span id="cb23-80"><a href="#cb23-80" aria-hidden="true" tabindex="-1"></a>              <span class="at">bgcol_alpha =</span> <span class="fl">0.2</span>) <span class="sc">+</span></span>
-<span id="cb23-81"><a href="#cb23-81" aria-hidden="true" tabindex="-1"></a>      <span class="fu">tm_layout</span>(</span>
-<span id="cb23-82"><a href="#cb23-82" aria-hidden="true" tabindex="-1"></a>        <span class="at">main.title =</span> <span class="fu">paste</span>(</span>
-<span id="cb23-83"><a href="#cb23-83" aria-hidden="true" tabindex="-1"></a>          <span class="st">"Suitable Area for"</span>, species_name,</span>
-<span id="cb23-84"><a href="#cb23-84" aria-hidden="true" tabindex="-1"></a>          <span class="st">"</span><span class="sc">\n</span><span class="st">Based on Preferred Temperature and Depth"</span></span>
-<span id="cb23-85"><a href="#cb23-85" aria-hidden="true" tabindex="-1"></a>        ),</span>
-<span id="cb23-86"><a href="#cb23-86" aria-hidden="true" tabindex="-1"></a>        <span class="at">main.title.size =</span> <span class="fl">0.8</span>,</span>
-<span id="cb23-87"><a href="#cb23-87" aria-hidden="true" tabindex="-1"></a>        <span class="at">main.title.fontface =</span> <span class="st">"bold"</span>,</span>
-<span id="cb23-88"><a href="#cb23-88" aria-hidden="true" tabindex="-1"></a>        <span class="at">legend.outside =</span> <span class="cn">TRUE</span>,</span>
-<span id="cb23-89"><a href="#cb23-89" aria-hidden="true" tabindex="-1"></a>        <span class="at">legend.outside.position =</span> <span class="st">"right"</span>,</span>
-<span id="cb23-90"><a href="#cb23-90" aria-hidden="true" tabindex="-1"></a>        <span class="at">component.autoscale =</span> <span class="cn">FALSE</span>,</span>
-<span id="cb23-91"><a href="#cb23-91" aria-hidden="true" tabindex="-1"></a>        <span class="at">outer.margins =</span> <span class="fu">c</span>(<span class="fl">0.01</span>, <span class="fl">0.25</span>, <span class="fl">0.01</span>, <span class="fl">0.05</span>)</span>
-<span id="cb23-92"><a href="#cb23-92" aria-hidden="true" tabindex="-1"></a>      ) <span class="sc">+</span></span>
-<span id="cb23-93"><a href="#cb23-93" aria-hidden="true" tabindex="-1"></a>      <span class="fu">tm_scale_bar</span>(<span class="at">position =</span> <span class="fu">c</span>(<span class="sc">-</span>.<span class="dv">02</span>, <span class="fl">0.08</span>)) <span class="sc">+</span></span>
-<span id="cb23-94"><a href="#cb23-94" aria-hidden="true" tabindex="-1"></a>      <span class="fu">tm_compass</span>(<span class="at">type =</span> <span class="st">"arrow"</span>, <span class="at">position =</span> <span class="fu">c</span>(<span class="st">"right"</span>, <span class="st">"top"</span>))<span class="sc">+</span></span>
-<span id="cb23-95"><a href="#cb23-95" aria-hidden="true" tabindex="-1"></a>      <span class="fu">tm_basemap</span>(<span class="st">"OpenStreetMap"</span>)</span>
-<span id="cb23-96"><a href="#cb23-96" aria-hidden="true" tabindex="-1"></a></span>
-<span id="cb23-97"><a href="#cb23-97" aria-hidden="true" tabindex="-1"></a>  table_eez<span class="ot">&lt;-</span> eez_table <span class="sc">%&gt;%</span></span>
-<span id="cb23-98"><a href="#cb23-98" aria-hidden="true" tabindex="-1"></a>  <span class="co"># Add a cleaned up table</span></span>
-<span id="cb23-99"><a href="#cb23-99" aria-hidden="true" tabindex="-1"></a>  <span class="fu">kable</span>(<span class="at">digits =</span> <span class="dv">2</span>, <span class="at">caption =</span> <span class="fu">paste</span>(<span class="st">"Suitable Area for"</span>, species_name)) <span class="sc">%&gt;%</span> </span>
-<span id="cb23-100"><a href="#cb23-100" aria-hidden="true" tabindex="-1"></a>    <span class="fu">kable_styling</span>()</span>
-<span id="cb23-101"><a href="#cb23-101" aria-hidden="true" tabindex="-1"></a></span>
-<span id="cb23-102"><a href="#cb23-102" aria-hidden="true" tabindex="-1"></a><span class="co"># This will return Map and Table</span></span>
-<span id="cb23-103"><a href="#cb23-103" aria-hidden="true" tabindex="-1"></a>  <span class="fu">return</span>(table_eez)</span>
-<span id="cb23-104"><a href="#cb23-104" aria-hidden="true" tabindex="-1"></a>  <span class="fu">return</span>(suit_func_map)</span>
-<span id="cb23-105"><a href="#cb23-105" aria-hidden="true" tabindex="-1"></a>}</span></code></pre></div><button title="Copy to Clipboard" class="code-copy-button"><i class="bi"></i></button></div>
+<span id="cb23-66"><a href="#cb23-66" aria-hidden="true" tabindex="-1"></a></span>
+<span id="cb23-67"><a href="#cb23-67" aria-hidden="true" tabindex="-1"></a>  <span class="co"># Plot It!</span></span>
+<span id="cb23-68"><a href="#cb23-68" aria-hidden="true" tabindex="-1"></a>  suit_func_map <span class="ot">&lt;-</span></span>
+<span id="cb23-69"><a href="#cb23-69" aria-hidden="true" tabindex="-1"></a>    <span class="fu">tm_shape</span>(eez_joined) <span class="sc">+</span></span>
+<span id="cb23-70"><a href="#cb23-70" aria-hidden="true" tabindex="-1"></a>      <span class="fu">tm_polygons</span>(</span>
+<span id="cb23-71"><a href="#cb23-71" aria-hidden="true" tabindex="-1"></a>        <span class="st">"suitable_area_km2_new"</span>,</span>
+<span id="cb23-72"><a href="#cb23-72" aria-hidden="true" tabindex="-1"></a>        <span class="at">palette =</span> <span class="st">"-mako"</span>,</span>
+<span id="cb23-73"><a href="#cb23-73" aria-hidden="true" tabindex="-1"></a>        <span class="at">style =</span> <span class="st">"cont"</span>,</span>
+<span id="cb23-74"><a href="#cb23-74" aria-hidden="true" tabindex="-1"></a>        <span class="at">title =</span> <span class="st">"Suitable Area (km²)"</span></span>
+<span id="cb23-75"><a href="#cb23-75" aria-hidden="true" tabindex="-1"></a>      ) <span class="sc">+</span></span>
+<span id="cb23-76"><a href="#cb23-76" aria-hidden="true" tabindex="-1"></a>      <span class="fu">tm_text</span>(<span class="st">"rgn"</span>,</span>
+<span id="cb23-77"><a href="#cb23-77" aria-hidden="true" tabindex="-1"></a>              <span class="at">size =</span> <span class="fl">0.45</span>,</span>
+<span id="cb23-78"><a href="#cb23-78" aria-hidden="true" tabindex="-1"></a>              <span class="at">col =</span> <span class="st">"black"</span>,</span>
+<span id="cb23-79"><a href="#cb23-79" aria-hidden="true" tabindex="-1"></a>              <span class="at">fontface =</span> <span class="st">"bold"</span>,</span>
+<span id="cb23-80"><a href="#cb23-80" aria-hidden="true" tabindex="-1"></a>              <span class="at">bgcol =</span> <span class="st">"antiquewhite"</span>,</span>
+<span id="cb23-81"><a href="#cb23-81" aria-hidden="true" tabindex="-1"></a>              <span class="at">bgcol_alpha =</span> <span class="fl">0.2</span>) <span class="sc">+</span></span>
+<span id="cb23-82"><a href="#cb23-82" aria-hidden="true" tabindex="-1"></a>      <span class="fu">tm_layout</span>(</span>
+<span id="cb23-83"><a href="#cb23-83" aria-hidden="true" tabindex="-1"></a>        <span class="at">main.title =</span> <span class="fu">paste</span>(</span>
+<span id="cb23-84"><a href="#cb23-84" aria-hidden="true" tabindex="-1"></a>          <span class="st">"Suitable Area for"</span>, species_name,</span>
+<span id="cb23-85"><a href="#cb23-85" aria-hidden="true" tabindex="-1"></a>          <span class="st">"</span><span class="sc">\n</span><span class="st">Based on Preferred Temperature and Depth"</span></span>
+<span id="cb23-86"><a href="#cb23-86" aria-hidden="true" tabindex="-1"></a>        ),</span>
+<span id="cb23-87"><a href="#cb23-87" aria-hidden="true" tabindex="-1"></a>        <span class="at">main.title.size =</span> <span class="fl">0.8</span>,</span>
+<span id="cb23-88"><a href="#cb23-88" aria-hidden="true" tabindex="-1"></a>        <span class="at">main.title.fontface =</span> <span class="st">"bold"</span>,</span>
+<span id="cb23-89"><a href="#cb23-89" aria-hidden="true" tabindex="-1"></a>        <span class="at">legend.outside =</span> <span class="cn">TRUE</span>,</span>
+<span id="cb23-90"><a href="#cb23-90" aria-hidden="true" tabindex="-1"></a>        <span class="at">legend.outside.position =</span> <span class="st">"right"</span>,</span>
+<span id="cb23-91"><a href="#cb23-91" aria-hidden="true" tabindex="-1"></a>        <span class="at">component.autoscale =</span> <span class="cn">FALSE</span>,</span>
+<span id="cb23-92"><a href="#cb23-92" aria-hidden="true" tabindex="-1"></a>        <span class="at">outer.margins =</span> <span class="fu">c</span>(<span class="fl">0.01</span>, <span class="fl">0.25</span>, <span class="fl">0.01</span>, <span class="fl">0.05</span>)</span>
+<span id="cb23-93"><a href="#cb23-93" aria-hidden="true" tabindex="-1"></a>      ) <span class="sc">+</span></span>
+<span id="cb23-94"><a href="#cb23-94" aria-hidden="true" tabindex="-1"></a>      <span class="fu">tm_scale_bar</span>(<span class="at">position =</span> <span class="fu">c</span>(<span class="sc">-</span>.<span class="dv">02</span>, <span class="fl">0.08</span>)) <span class="sc">+</span></span>
+<span id="cb23-95"><a href="#cb23-95" aria-hidden="true" tabindex="-1"></a>      <span class="fu">tm_compass</span>(<span class="at">type =</span> <span class="st">"arrow"</span>, <span class="at">position =</span> <span class="fu">c</span>(<span class="st">"right"</span>, <span class="st">"top"</span>))<span class="sc">+</span></span>
+<span id="cb23-96"><a href="#cb23-96" aria-hidden="true" tabindex="-1"></a>      <span class="fu">tm_basemap</span>(<span class="st">"OpenStreetMap"</span>)</span>
+<span id="cb23-97"><a href="#cb23-97" aria-hidden="true" tabindex="-1"></a></span>
+<span id="cb23-98"><a href="#cb23-98" aria-hidden="true" tabindex="-1"></a>  table_eez<span class="ot">&lt;-</span> eez_table <span class="sc">%&gt;%</span></span>
+<span id="cb23-99"><a href="#cb23-99" aria-hidden="true" tabindex="-1"></a>  <span class="co"># Add a cleaned up table</span></span>
+<span id="cb23-100"><a href="#cb23-100" aria-hidden="true" tabindex="-1"></a>  <span class="fu">kable</span>(<span class="at">digits =</span> <span class="dv">2</span>, <span class="at">caption =</span> <span class="fu">paste</span>(<span class="st">"Suitable Area for"</span>, species_name)) <span class="sc">%&gt;%</span> </span>
+<span id="cb23-101"><a href="#cb23-101" aria-hidden="true" tabindex="-1"></a>    <span class="fu">kable_styling</span>()</span>
+<span id="cb23-102"><a href="#cb23-102" aria-hidden="true" tabindex="-1"></a></span>
+<span id="cb23-103"><a href="#cb23-103" aria-hidden="true" tabindex="-1"></a><span class="co"># This will return Map and Table</span></span>
+<span id="cb23-104"><a href="#cb23-104" aria-hidden="true" tabindex="-1"></a>  <span class="fu">return</span>(table_eez)</span>
+<span id="cb23-105"><a href="#cb23-105" aria-hidden="true" tabindex="-1"></a>  <span class="fu">return</span>(suit_func_map)</span>
+<span id="cb23-106"><a href="#cb23-106" aria-hidden="true" tabindex="-1"></a>}</span></code></pre></div><button title="Copy to Clipboard" class="code-copy-button"><i class="bi"></i></button></div>
 </details>
 </div>
 </section>

diff --git a/docs/blog_post.html b/docs/blog_post.html
@@ -214,7 +214,7 @@ window.Quarto = {
 
 <div class="quarto-listing quarto-listing-container-grid" id="listing-listing">
 <div class="list grid quarto-listing-cols-3">
-<div class="g-col-1" data-index="0" data-categories="UXVhcnRvJTJDUiUyQ01FRFM=" data-listing-date-sort="1765440000000" data-listing-file-modified-sort="1765492735397" data-listing-date-modified-sort="NaN" data-listing-reading-time-sort="17" data-listing-word-count-sort="3375">
+<div class="g-col-1" data-index="0" data-categories="UXVhcnRvJTJDUiUyQ01FRFM=" data-listing-date-sort="1765440000000" data-listing-file-modified-sort="1765495430935" data-listing-date-modified-sort="NaN" data-listing-reading-time-sort="18" data-listing-word-count-sort="3431">
 <a href="./blog_post/prioritizing_west_coast_aquaculture_sites/index.html" class="quarto-grid-link">
 <div class="quarto-grid-item card h-100 card-left">
 <p class="card-img-top">
